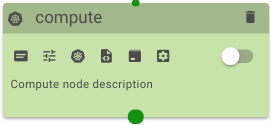
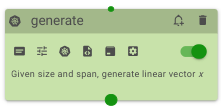
Add nodes alerts

diff --git a/src/desc/nodes.md b/src/desc/nodes.md
@@ -26,6 +26,7 @@
 - Заголовок
   - <span class="iconify-inline" data-icon="mdi:kubernetes"></span> Иконка типа узла
   - Название узла: _compute_
+  - <span class="iconify-inline" data-icon="mdi:bell-plus-outline"></span> Кнопка открытия диалога управления [оповещениями](#оповещения-узла) узла
   - <span class="iconify-inline" data-icon="mdi:delete"></span> Кнопка удаления узла
 - Кнопки для доступа к соответствующим вкладкам панели узла
 
@@ -53,7 +54,7 @@
   - <span class="iconify-inline" data-icon="mdi:card-text"></span> [Описание](#описание)
   - <span class="iconify-inline" data-icon="mdi:tune"></span> [Параметры](#параметры)
   - <span class="iconify-inline" data-icon="mdi:database"></span> [Запрос](#запрос)
-  - <span class="iconify-inline" data-icon="mdi:package"></span> [Пакеты][#пакеты]
+  - <span class="iconify-inline" data-icon="mdi:package"></span> [Пакеты](#пакеты)
 
 ### Узел данных
 
@@ -66,7 +67,30 @@
 - Кнопки для доступа к соответствующим свойствам узла
   - <span class="iconify-inline" data-icon="mdi:card-text"></span> [Описание](#описание)
   - <span class="iconify-inline" data-icon="mdi:tune"></span> [Параметры](#параметры)
-  - <span class="iconify-inline" data-icon="mdi:package"></span> [Пакеты][#пакеты]
+  - <span class="iconify-inline" data-icon="mdi:package"></span> [Пакеты](#пакеты)
+
+
+## Оповещения узла
+
+Оповещения расчетного узла предназначены для рассылки уведомлений, подписавшимся пользователям, о произошедщих событиях в узле с объектами (задания), создателем которых является пользователь.
+
+В окне оповещений узла доступно:
+
+- Кнопка <span class="iconify-inline" color="teal" data-icon="mdi:email-outline"/> или <span class="iconify-inline" color="blue" data-icon="mdi:send-circle-outline"/> - выбор способа оповещений (электронная почта <span class="iconify-inline" color="teal" data-icon="mdi:email-outline"/> или телеграмм <span class="iconify-inline" color="blue" data-icon="mdi:send-circle-outline"/>).
+  > Для использования уведомлений с помощью Телеграмм необходимо, чтобы экземляр платформы поддерживал данный способ уведомлений,
+    а также чтобы в [настройках пользователя][9] был включен переключатель интеграции с Телеграмм .
+- <span class='iconify-inline' data-icon='bi:toggle-on' style="color: green"></span> Оповещения включены/выключены - переключатель включение/выключение оповещений.
+- <span class='iconify-inline' data-icon='bi:toggle-on' style="color: green"></span> - переключатели включение/выключение отдельных типов оповещений.
+
+Типы оповещений:
+- Задание выполнено - задание успешно завершено.
+- Все задания выполнены - все задания завершены (как успешно, так и с ошибками).
+  > Проверка наличия заданий осуществляется только в текущем узле поэтому возможны ложно-положительные уведомления.
+- Задание не выполнено - завершено с ошибкой.
+
+::: warning <span class="iconify" data-icon="emojione-v1:warning" style="color: #e7c000; font-size: 24px;"></span>
+ В связи с наличием [ограничений](https://core.telegram.org/bots/faq#my-bot-is-hitting-limits-how-do-i-avoid-this) Телеграмм платформа может ограничивать количество отправляемых оповещений для пользователя при их большом количестве.
+ :::
 
 ## Панели узла
 
@@ -523,3 +547,4 @@ Cтруктура:
 [6]: /docs/desc/job.md#состояния
 [7]: /docs/desc/docker.md
 [8]: /docs/desc/job.md#типы
+[9]: /docs/desc/dashboard.md#редактирование

diff --git a/src/desc/dashboard.md b/src/desc/dashboard.md
@@ -82,12 +82,13 @@
 - Ававтар - щелкнуть по аватару
 - Логин
 - Полное имя
-- Почта- электронная почта
+- Почта - электронная почта
 - <span class="iconify-inline" data-icon="mdi:checkbox-blank-outline"></span> Показывать почту в профиле - включает/выключает отображение почты в [галерее][6] в разделе **ПОЛЬЗОВАТЕЛИ**.
 - Веб сайт - веб сайт пользователя
 - Локаль - язык пользователя
 - Временная зона - временная зона пользователя
 - Темная тема - включение/выключение темной темы 
+- Оповещения в Telegram - переключатель интеграции с телеграмм.
 - Редактор - редактор ввода описания пользователя
 - Кнопка "СОХРАНИТЬ"
 - Кнопка "ОТМЕНА"

diff --git a/src/desc/project_role.md b/src/desc/project_role.md
@@ -152,6 +152,7 @@
 <b>Управление другими возможностями:</b>
 
 - Узел
+  - Доступ к диалогу оповещения узла - package_create и package_view для узла 
   - Создание - graph_edit, code_edit на уровне проекта
     Вставка  - graph_edit, code_edit на уровне проекта
   - Удаление - graph_edit, code_edit и package_delete на уровне проекта или узла
